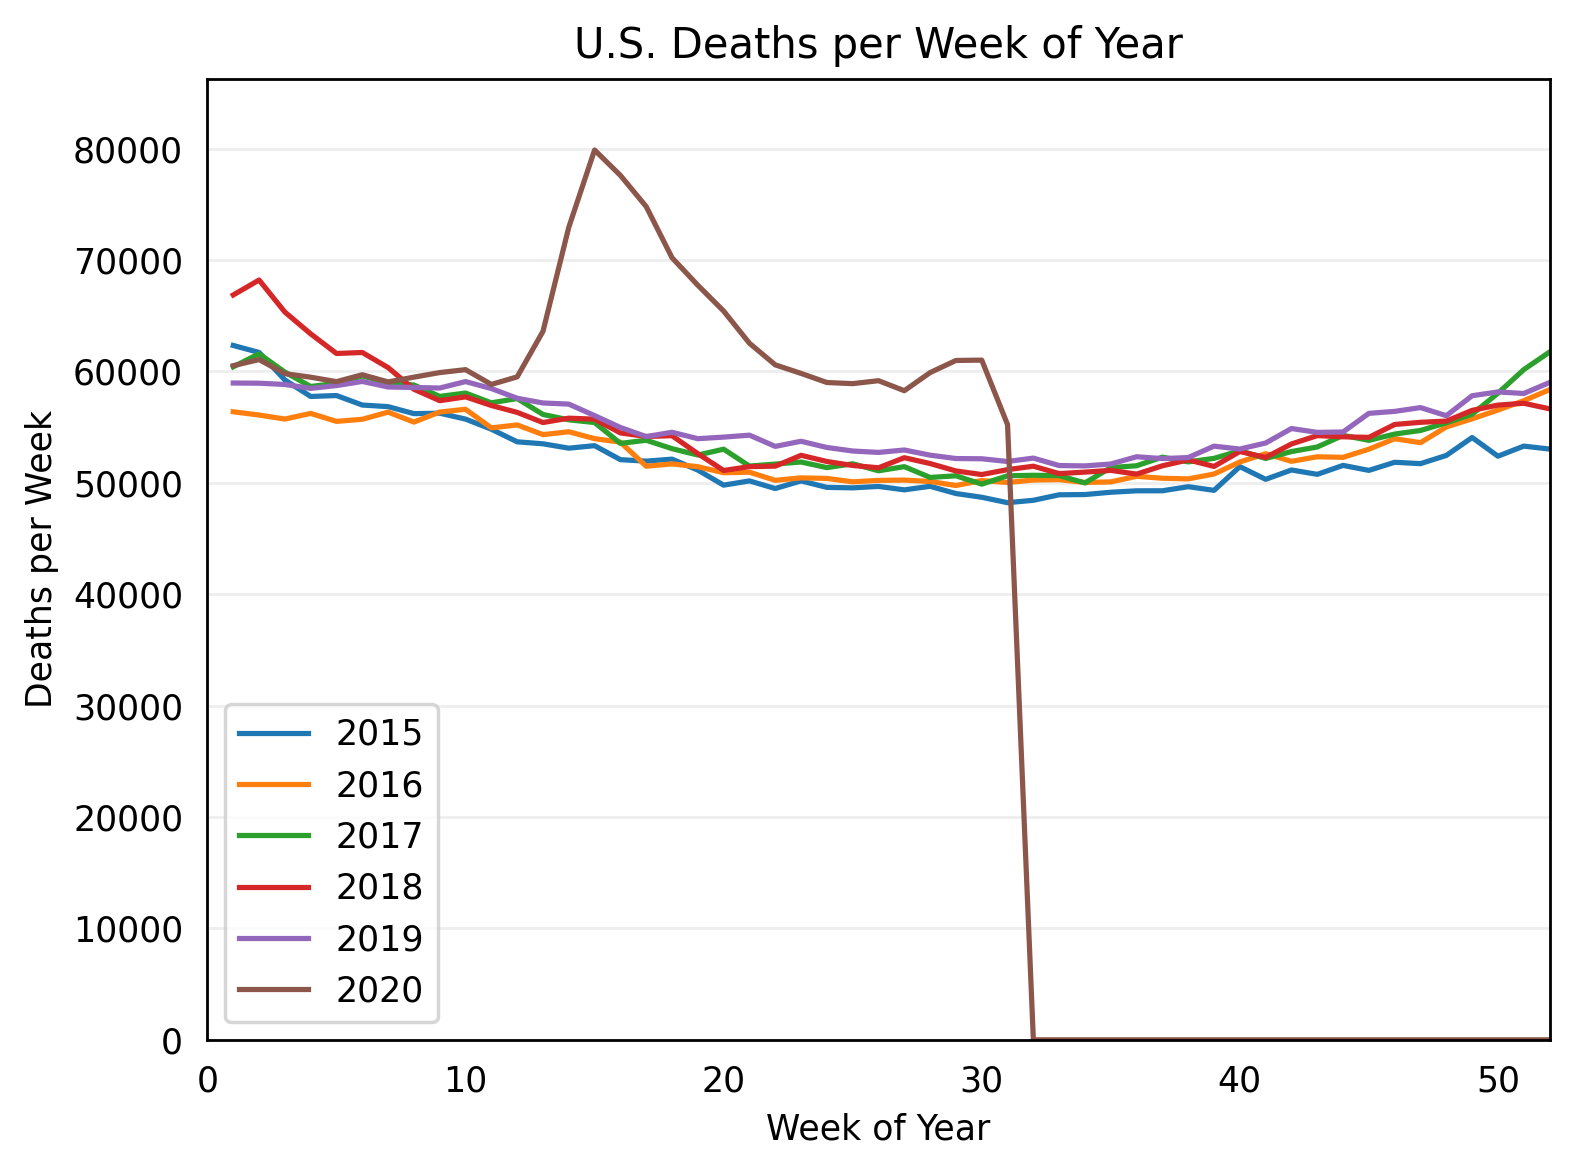
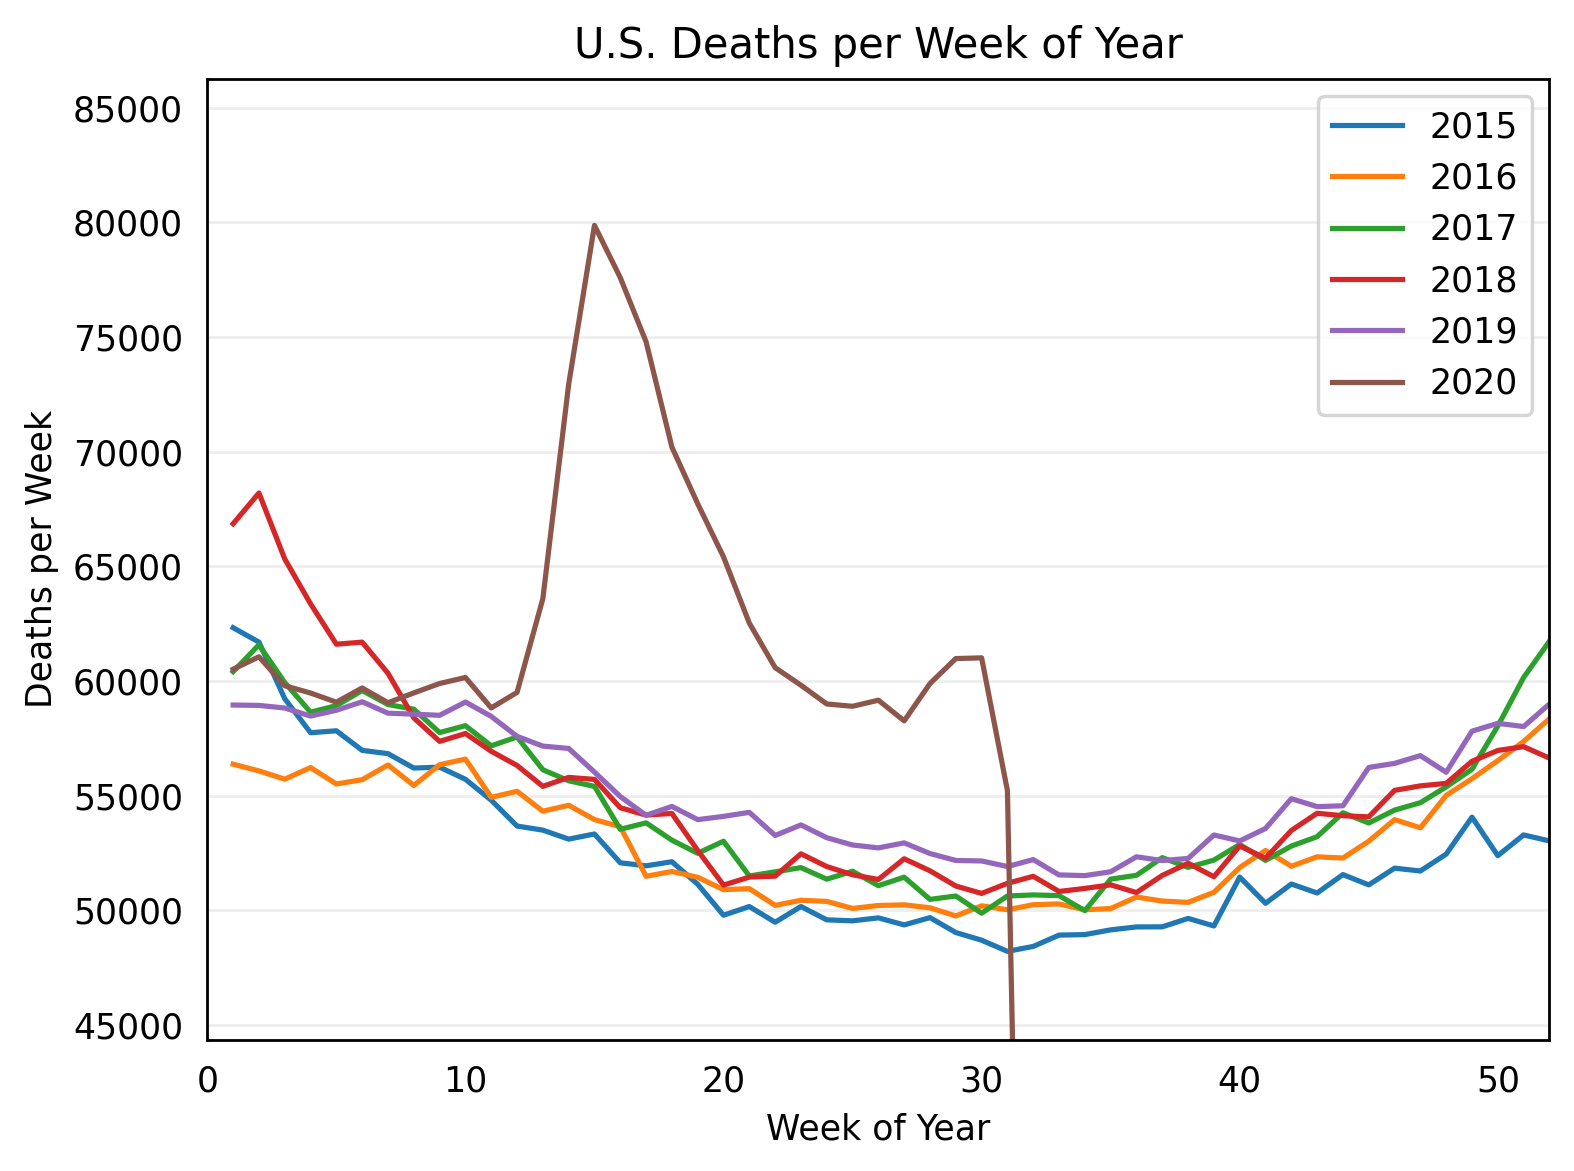
added more charts

diff --git a/investigate_mortality.py b/investigate_mortality.py
@@ -141,7 +141,8 @@ print("\n-------------------\n")
 
 
 # Plot year after year
-deaths_by_week = deaths_by_years.dropna(how='all').groupby(['Year', 'Week']).sum()[['Number of Deaths']]
+
+deaths_by_week = deaths_by_years.dropna(how='all').groupby(['Year', 'Week']).sum()
 ax = deaths_by_week.plot.line(y='Number of Deaths')
 ax.set_ylim([min(deaths_by_week['Number of Deaths'].values)*0.92,
              max(deaths_by_week['Number of Deaths'].values)*1.08])
@@ -161,44 +162,63 @@ plt.show()
 
 
 # Overlay plot of year over year
-yearly_dict = {}
-deaths_by_week = deaths_by_week.reset_index()
-max_count, min_count = 0, 0
-# print(deaths_by_week)
-for year in deaths_by_week['Year'].unique():
-    yearly_dict[year] = deaths_by_week.where(
-        deaths_by_week['Year']==year).dropna(how='all')['Number of Deaths'].values
+state_abbreviations_plus_us = np.append(state_abbreviations, 'US')
+print(state_abbreviations_plus_us)
+
+deaths_by_week = deaths_by_years.dropna(how='all').groupby(
+    ['Year', 'Week', 'State Abbreviation']).sum().reset_index()
+
+for state_abbreviation in state_abbreviations_plus_us:
     
-    if len(yearly_dict[year]) < len(deaths_by_week['Week'].unique()):
-        pad = np.zeros(len(deaths_by_week['Week'].unique()) - len(yearly_dict[year]))
-        yearly_dict[year] = np.append(yearly_dict[year], pad)
+    yearly_dict = {}
+    max_count, min_count = 0, 999999999999
+    for year in deaths_by_week['Year'].unique():
 
-    if max(yearly_dict[year]) > max_count:
-        max_count = max(yearly_dict[year])
-    if min(yearly_dict[year]) < min_count:
-        min_count = min(yearly_dict[year])
+        yearly_dict[year] = deaths_by_week
+        if state_abbreviation != 'US':
+            yearly_dict[year] = yearly_dict[year].where(
+                deaths_by_week['State Abbreviation']==state_abbreviation
+            ).dropna(how='all')
+        else:
+            yearly_dict[year] = yearly_dict[year].groupby(
+                ['Year', 'Week']).sum().reset_index()
+
+        yearly_dict[year] = yearly_dict[year].where(           
+            yearly_dict[year]['Year']==year).dropna(how='all')['Number of Deaths'].values
+    
+        if len(yearly_dict[year]) < len(deaths_by_week['Week'].unique()):
+            pad = np.zeros(len(deaths_by_week['Week'].unique()) - len(yearly_dict[year]))
+            yearly_dict[year] = np.append(yearly_dict[year], pad)
+            
+        if max(yearly_dict[year]) > max_count:
+            max_count = max(yearly_dict[year])
+        if min(yearly_dict[year]) < min_count and int(year) != 2020:
+            min_count = min(yearly_dict[year])
         
-yearly_df = pd.DataFrame(yearly_dict, index=deaths_by_week['Week'].unique())
+    yearly_df = pd.DataFrame(yearly_dict, index=deaths_by_week['Week'].unique())
 
-ax = yearly_df.plot.line()
-ax.set_xlim([0, 52])
-ax.set_ylim([min_count*0.92, max_count*1.08])
+    ax = yearly_df.plot.line()
+    ax.set_xlim([0, 52])
+    ax.set_ylim([min_count*0.92, max_count*1.08])
+    
+    ax.set_xlabel('Week of Year')
+    ax.set_ylabel('Deaths per Week')
+    ax.set_title(state_abbreviation + ' Deaths per Week of Year')
+    
+    ax.yaxis.grid(True, color='#EEEEEE')
+    ax.xaxis.grid(False)
+    ax.set_axisbelow(True)
+    ax.tick_params(bottom=False, left=False)
+    
+    plt.tight_layout()
+    plt.savefig('graphs/cdc-derived/'+ state_abbreviation +'-deaths-by-week-of-year.png',
+                dpi=250.0, bbox_inches='tight')
 
-ax.set_xlabel('Week of Year')
-ax.set_ylabel('Deaths per Week')
-ax.set_title('U.S. Deaths per Week of Year')
-
-ax.yaxis.grid(True, color='#EEEEEE')
-ax.xaxis.grid(False)
-ax.set_axisbelow(True)
-ax.tick_params(bottom=False, left=False)
-
-plt.tight_layout()
-plt.savefig('graphs/us-deaths-by-week-of-year.png',
-            dpi=250.0, bbox_inches='tight')
-plt.show()
-
-
+    if state_abbreviation == 'US':
+        plt.show()
+    else:
+        print("Processed", state_abbreviation, "for Deaths per Week of Year")
+        plt.close()
 
 print("\n-------------------\n")
 
